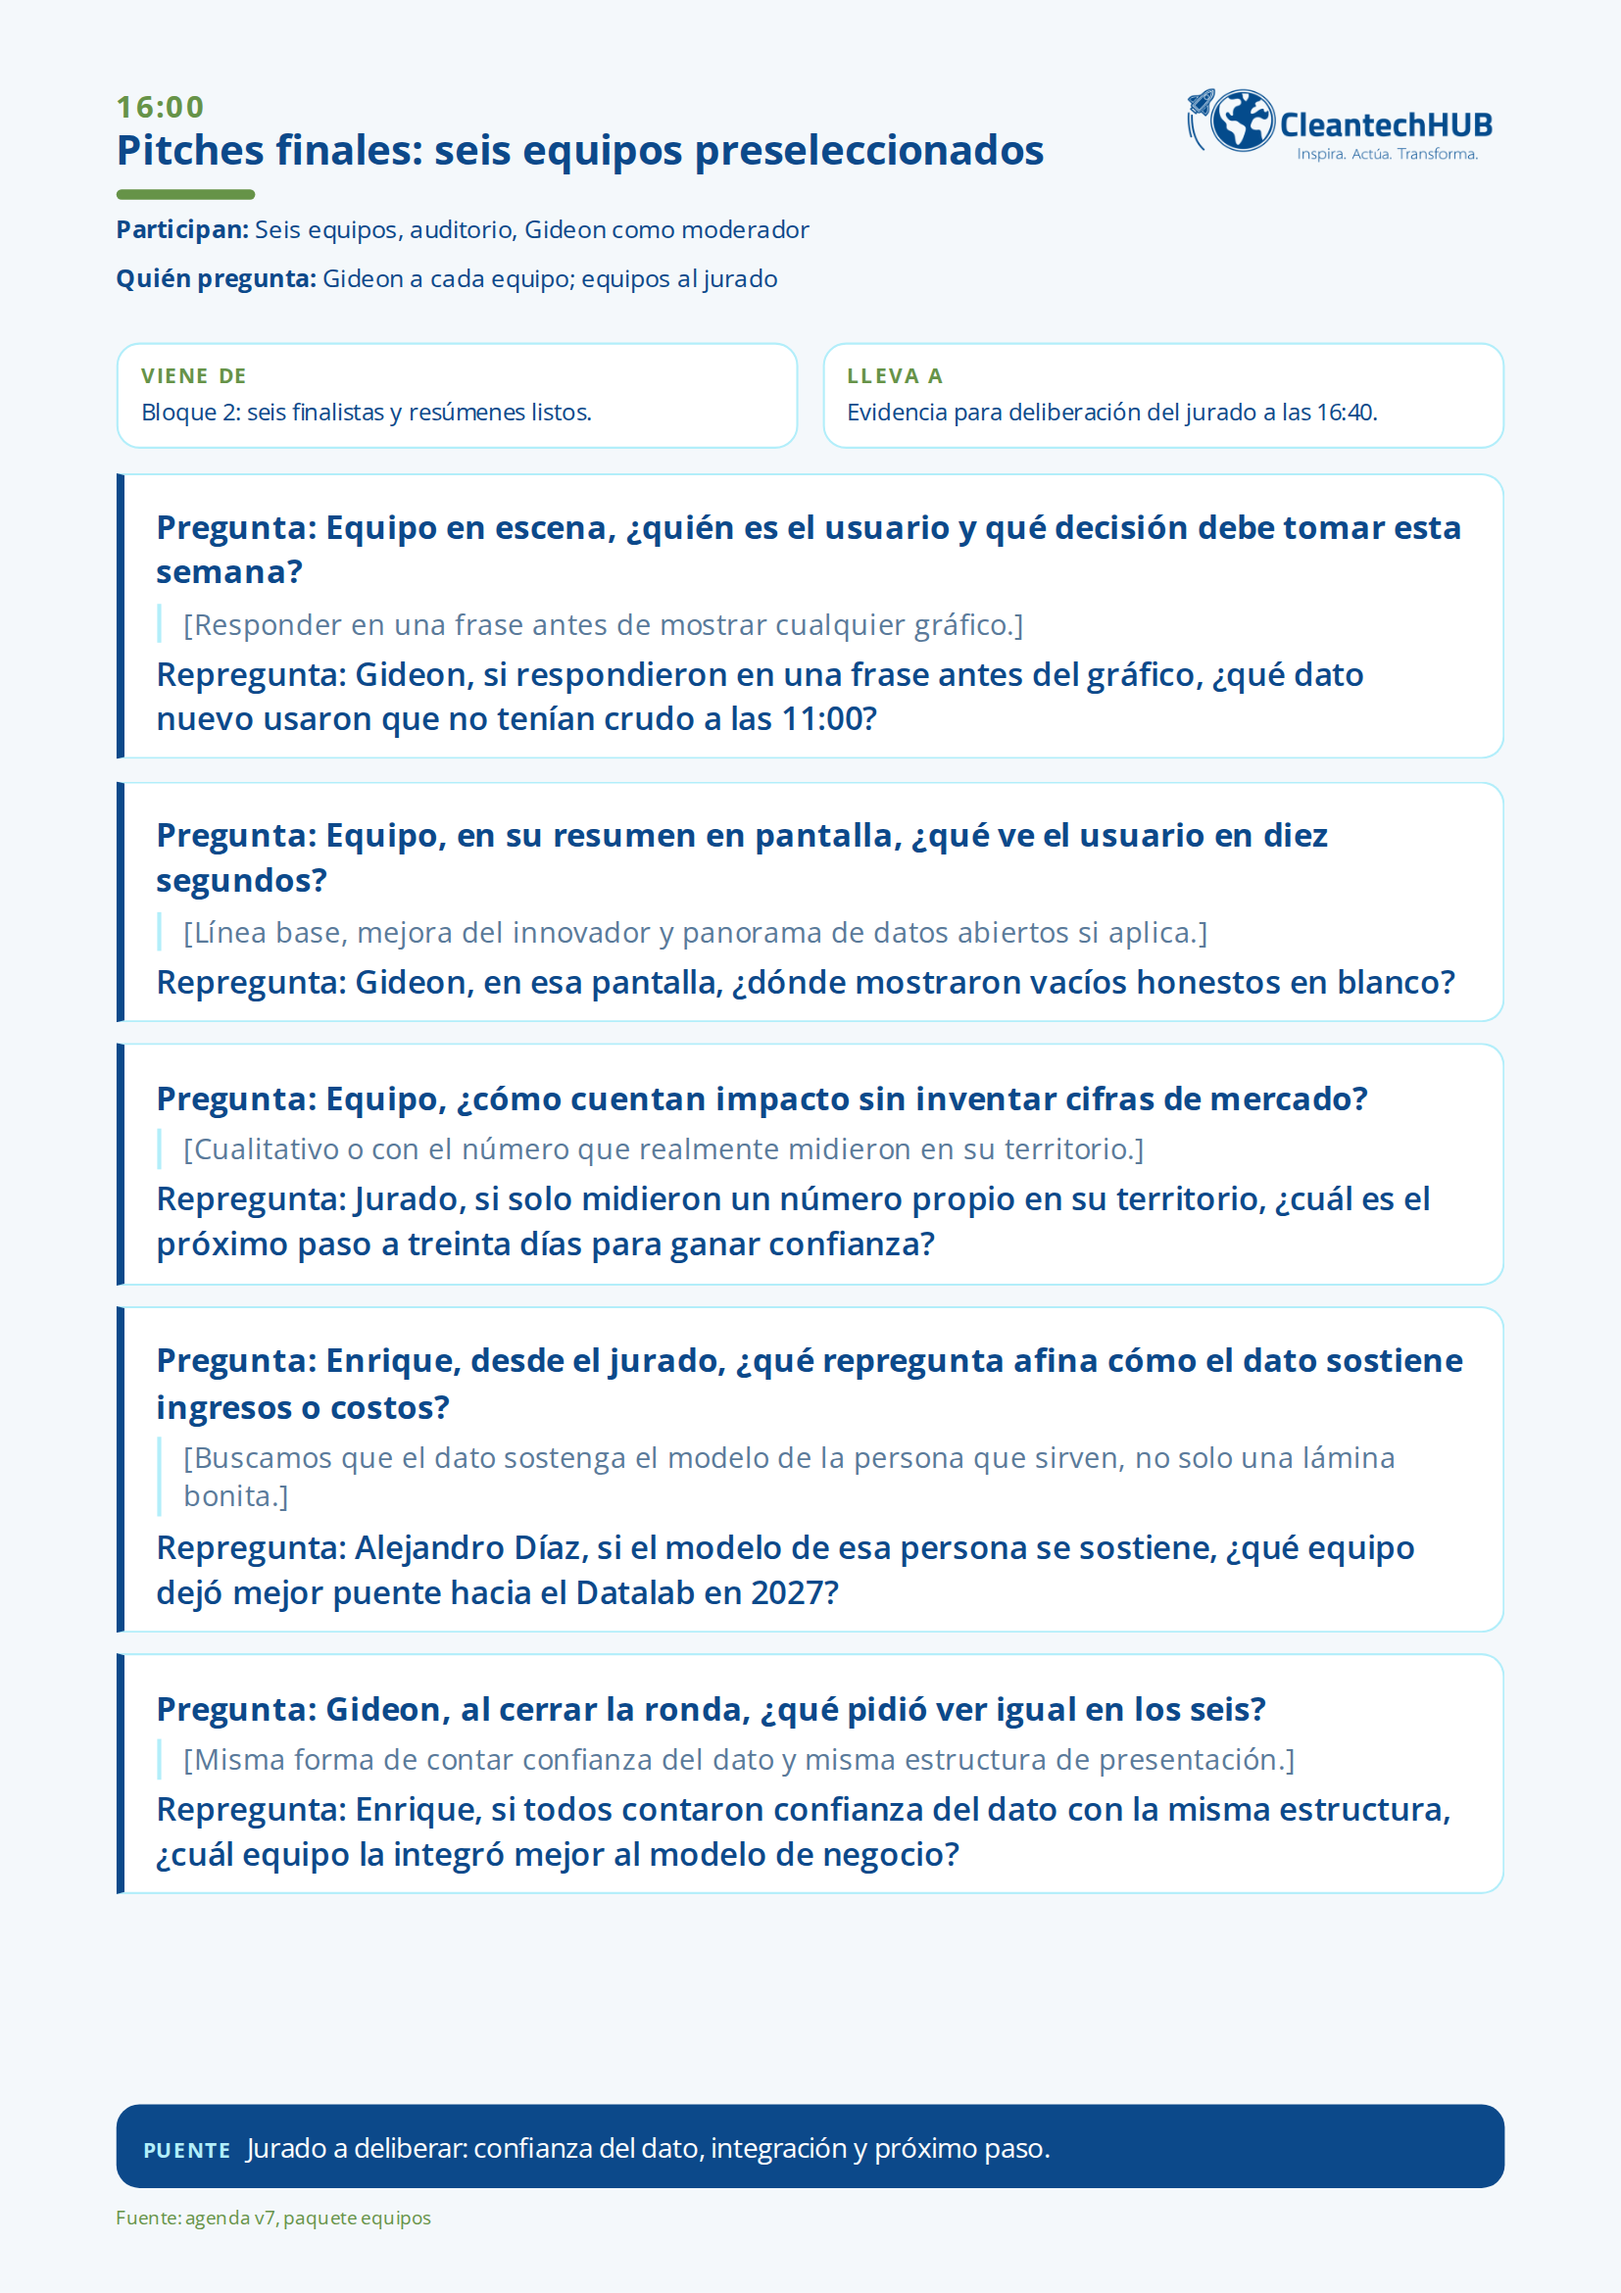
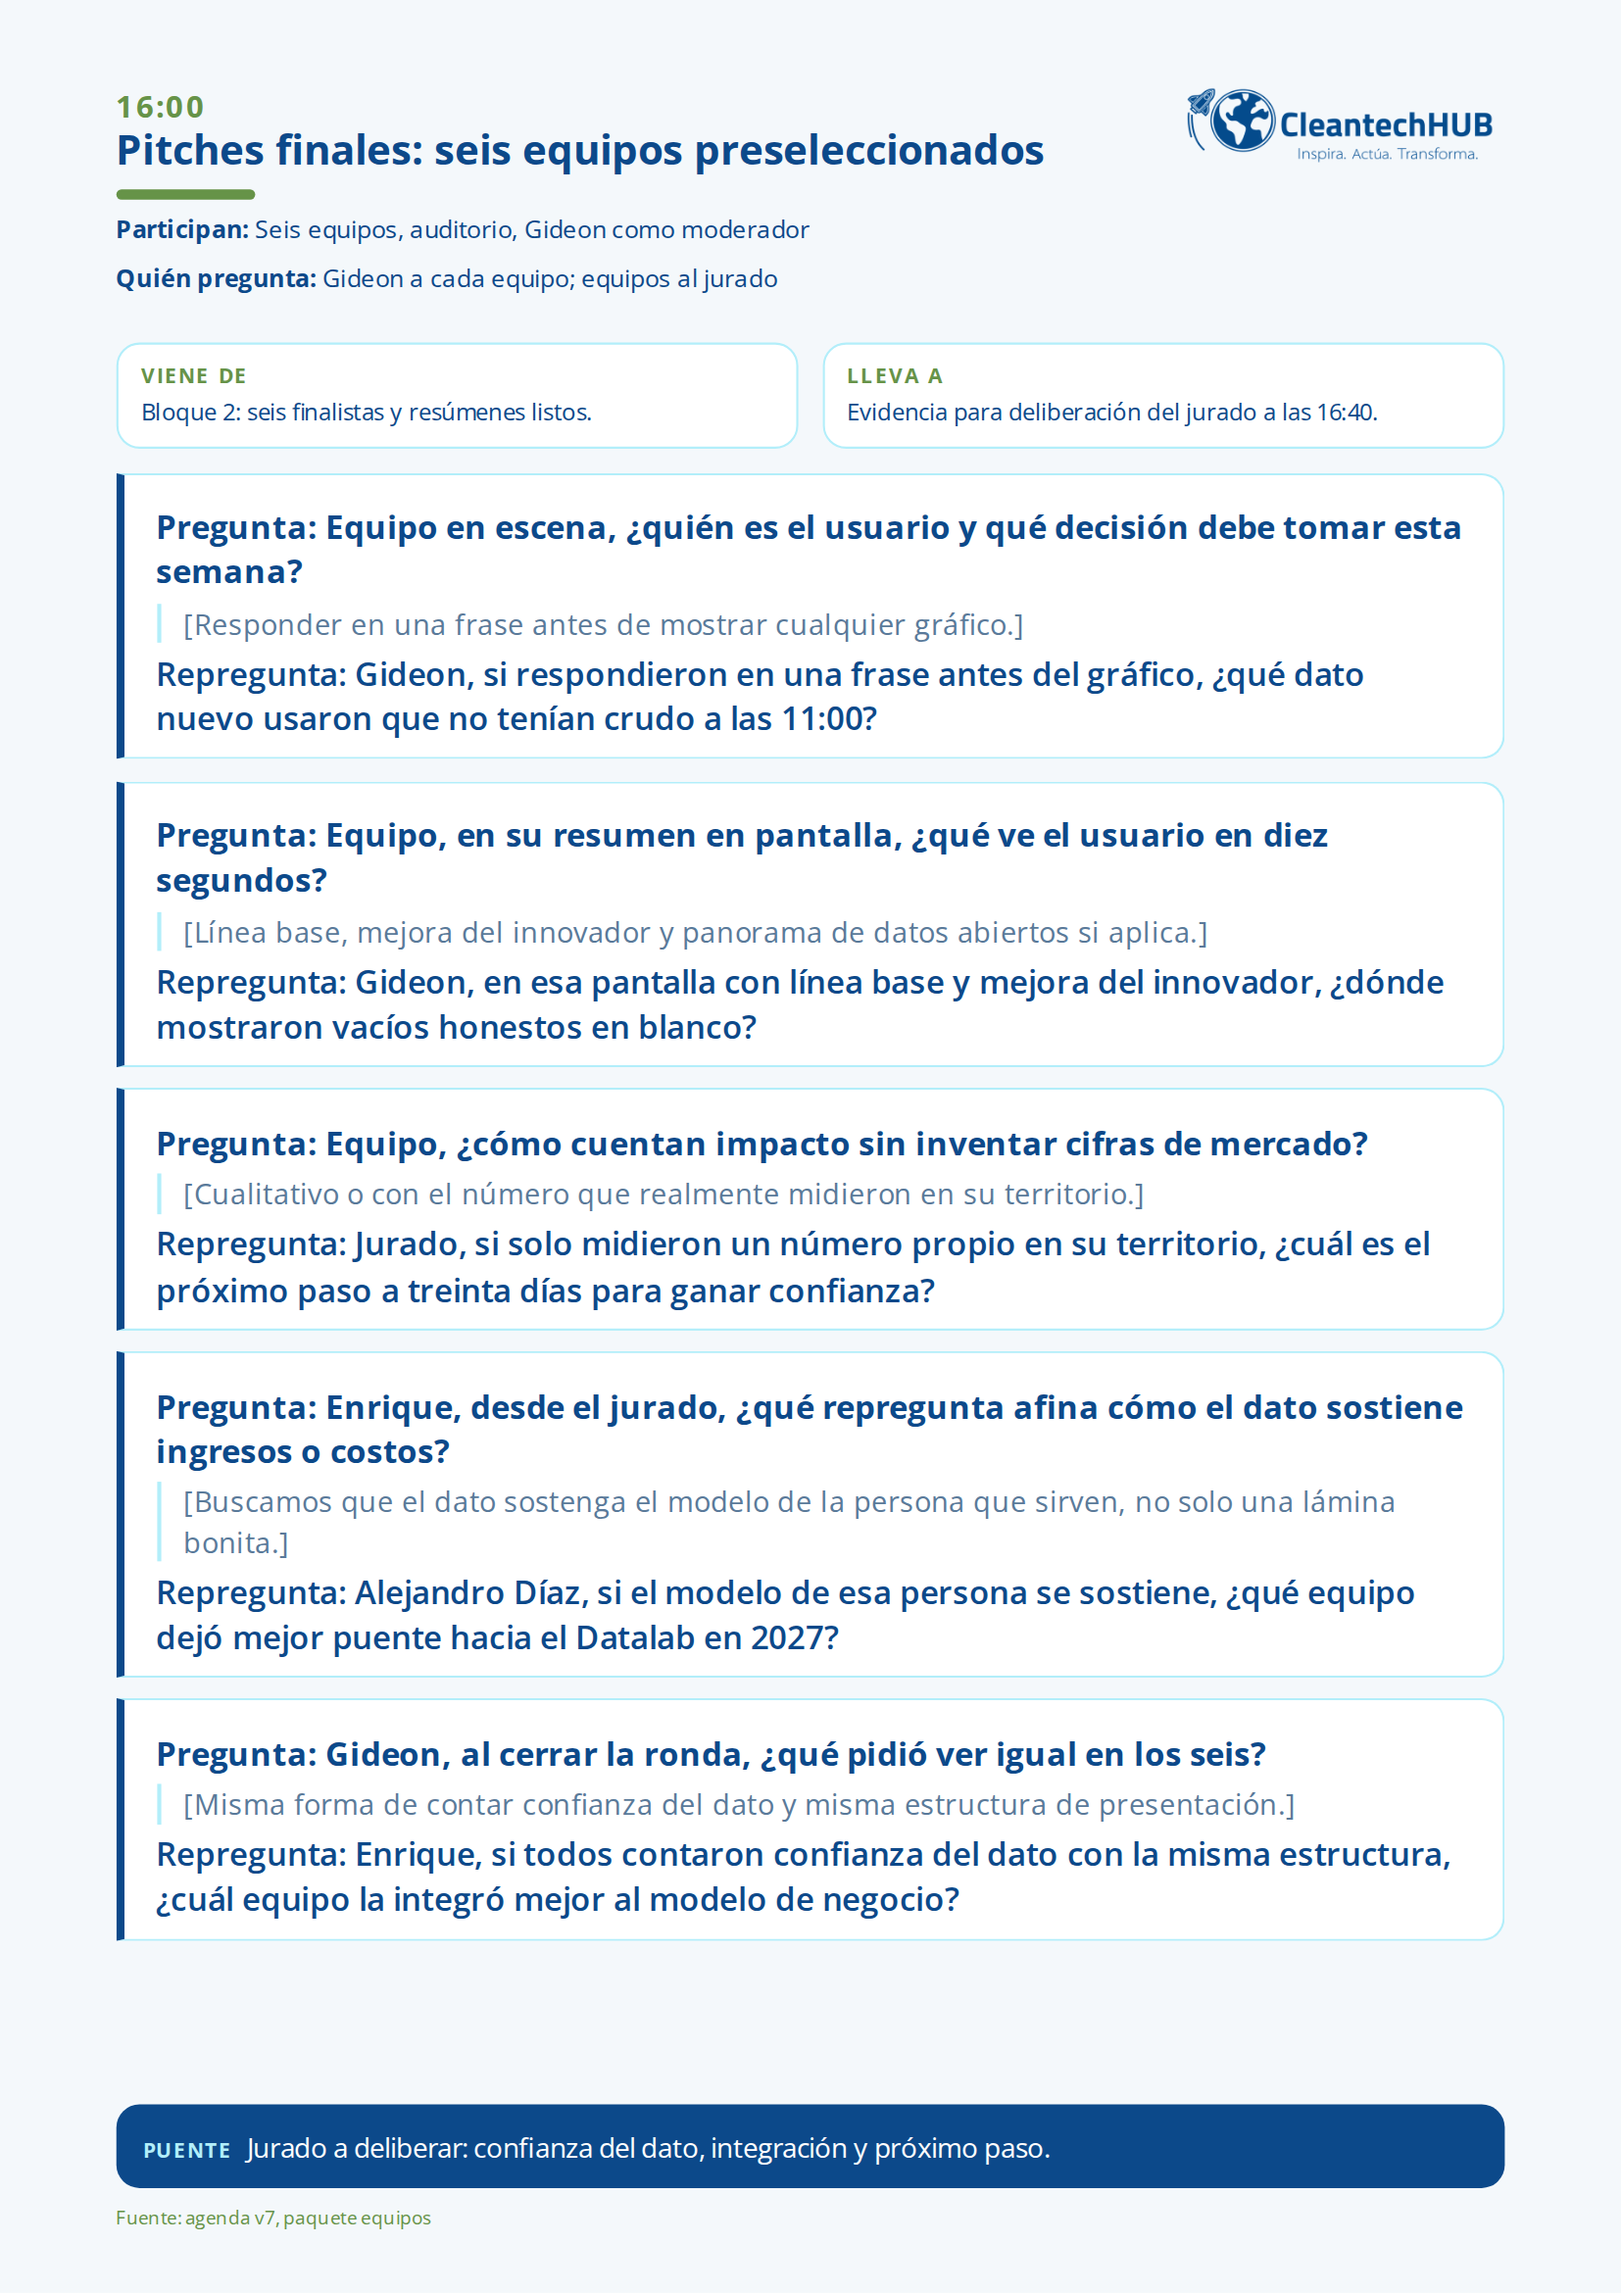
Run 7: fix p15 T2 repregunta word reuse

Changed region(s): [[0.0617, 0.4056, 0.925, 0.8423]]

diff --git a/decks/dataton-2026-preguntas-espacios/index.html b/decks/dataton-2026-preguntas-espacios/index.html
@@ -828,7 +828,7 @@ body.print-mode .page { margin: 0; box-shadow: none; }
   <div class="page-main">
     <div class="turns">
       <div class="turn"><p class="pregunta">Pregunta: Equipo en escena, ¿quién es el usuario y qué decisión debe tomar esta semana?</p><p class="anticipada">[Responder en una frase antes de mostrar cualquier gráfico.]</p><p class="repregunta">Repregunta: Gideon, si respondieron en una frase antes del gráfico, ¿qué dato nuevo usaron que no tenían crudo a las 11:00?</p></div>
-<div class="turn"><p class="pregunta">Pregunta: Equipo, en su resumen en pantalla, ¿qué ve el usuario en diez segundos?</p><p class="anticipada">[Línea base, mejora del innovador y panorama de datos abiertos si aplica.]</p><p class="repregunta">Repregunta: Gideon, en esa pantalla, ¿dónde mostraron vacíos honestos en blanco?</p></div>
+<div class="turn"><p class="pregunta">Pregunta: Equipo, en su resumen en pantalla, ¿qué ve el usuario en diez segundos?</p><p class="anticipada">[Línea base, mejora del innovador y panorama de datos abiertos si aplica.]</p><p class="repregunta">Repregunta: Gideon, en esa pantalla con línea base y mejora del innovador, ¿dónde mostraron vacíos honestos en blanco?</p></div>
 <div class="turn"><p class="pregunta">Pregunta: Equipo, ¿cómo cuentan impacto sin inventar cifras de mercado?</p><p class="anticipada">[Cualitativo o con el número que realmente midieron en su territorio.]</p><p class="repregunta">Repregunta: Jurado, si solo midieron un número propio en su territorio, ¿cuál es el próximo paso a treinta días para ganar confianza?</p></div>
 <div class="turn"><p class="pregunta">Pregunta: Enrique, desde el jurado, ¿qué repregunta afina cómo el dato sostiene ingresos o costos?</p><p class="anticipada">[Buscamos que el dato sostenga el modelo de la persona que sirven, no solo una lámina bonita.]</p><p class="repregunta">Repregunta: Alejandro Díaz, si el modelo de esa persona se sostiene, ¿qué equipo dejó mejor puente hacia el Datalab en 2027?</p></div>
 <div class="turn"><p class="pregunta">Pregunta: Gideon, al cerrar la ronda, ¿qué pidió ver igual en los seis?</p><p class="anticipada">[Misma forma de contar confianza del dato y misma estructura de presentación.]</p><p class="repregunta">Repregunta: Enrique, si todos contaron confianza del dato con la misma estructura, ¿cuál equipo la integró mejor al modelo de negocio?</p></div>

diff --git a/decks/dataton-2026-preguntas-espacios/spaces.py b/decks/dataton-2026-preguntas-espacios/spaces.py
@@ -444,7 +444,7 @@ SPACES = [
             (
                 "Equipo, en su resumen en pantalla, ¿qué ve el usuario en diez segundos?",
                 "Línea base, mejora del innovador y panorama de datos abiertos si aplica.",
-                "Gideon, en esa pantalla, ¿dónde mostraron vacíos honestos en blanco?",
+                "Gideon, en esa pantalla con línea base y mejora del innovador, ¿dónde mostraron vacíos honestos en blanco?",
             ),
             (
                 "Equipo, ¿cómo cuentan impacto sin inventar cifras de mercado?",
